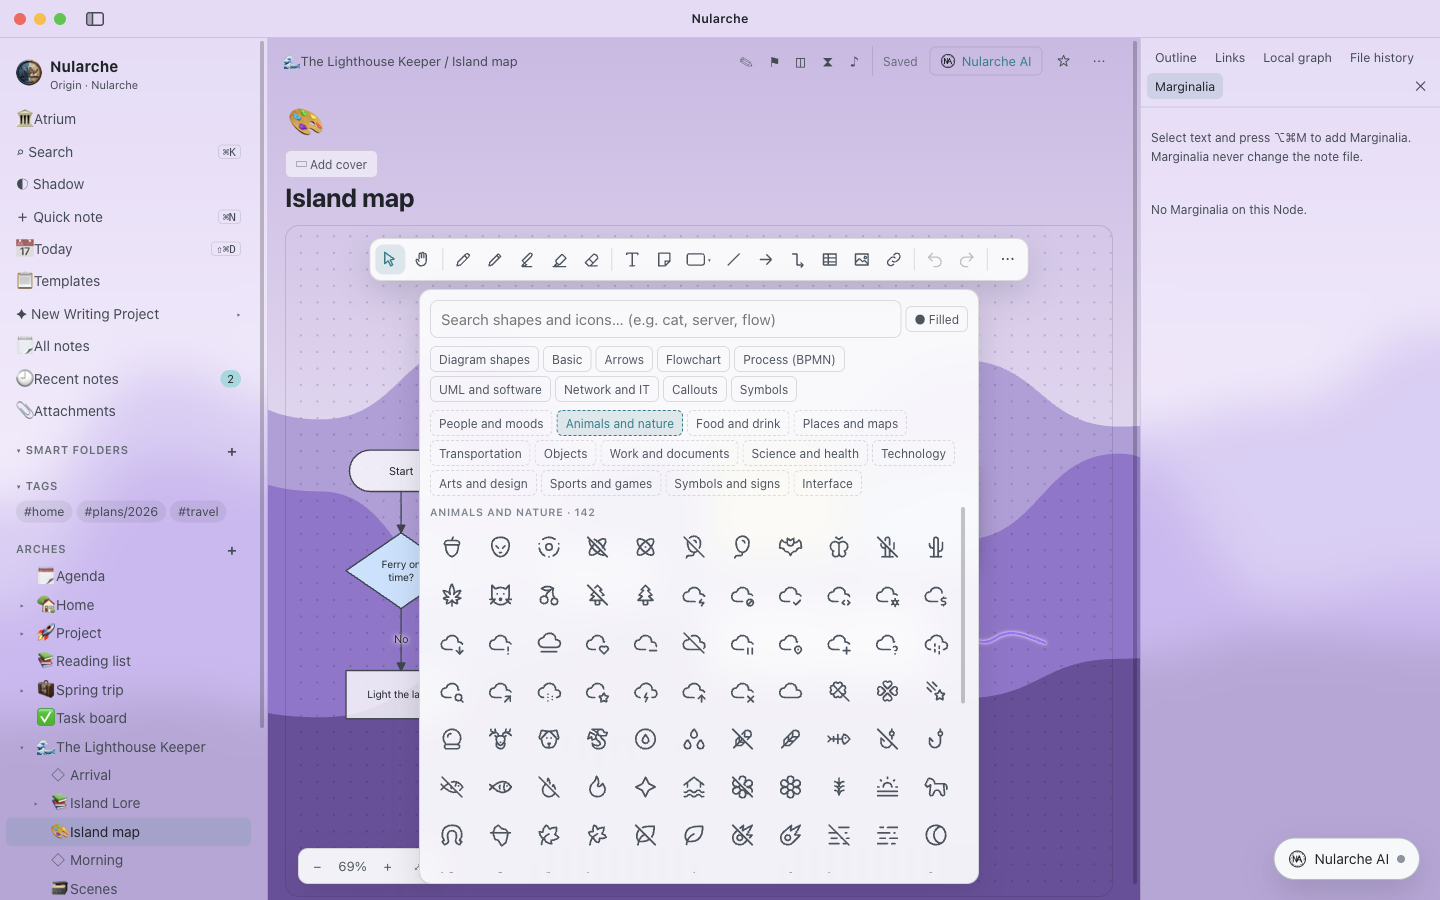
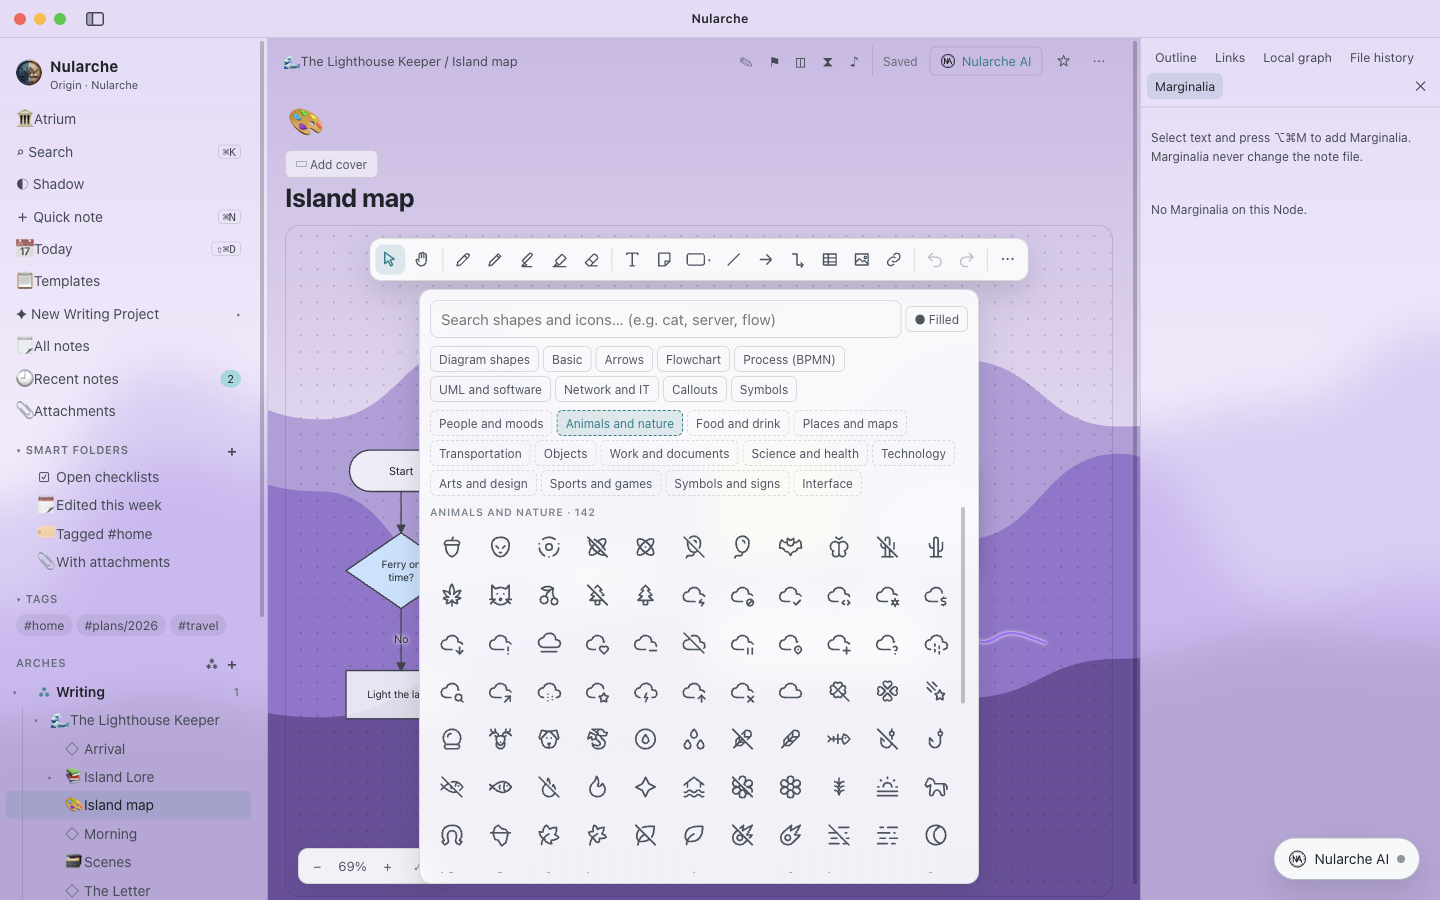
docs: screenshots for Nularche Font, Archipelago and Atrium smart folders
Adds an About entry for Nularche Font, new screenshot steps (Atrium smart folders,
Archipelago sidebar, a chapter in Nularche Font, Tabula sticky notes in Nularche Font)
and puts the images in the README 2.5.0 section.

Changed region(s): [[0.0, 0.5289, 0.1562, 0.9956], [0.1562, 0.7156, 0.1875, 0.7778], [0.125, 0.6844, 0.1562, 0.7156]]

diff --git a/scripts/screenshots.ts b/scripts/screenshots.ts
@@ -446,8 +446,8 @@ try {
       { id: "l1", type: "line", x: 0, y: 0, w: 0, h: 0, from: { x: 0, y: 0, id: "s1" }, to: { x: 0, y: 0, id: "s2" }, route: "straight", endHead: "triangle", style: { strokeWidth: 2 } },
       { id: "l2", type: "line", x: 0, y: 0, w: 0, h: 0, from: { x: 0, y: 0, id: "s2", side: "right" }, to: { x: 0, y: 0, id: "s3" }, route: "elbow", endHead: "triangle", style: { strokeWidth: 2 }, text: "Yes" },
       { id: "l3", type: "line", x: 0, y: 0, w: 0, h: 0, from: { x: 0, y: 0, id: "s2", side: "bottom" }, to: { x: 0, y: 0, id: "s4" }, route: "straight", endHead: "triangle", style: { strokeWidth: 2 }, text: "No" },
-      { id: "n1", type: "sticky", x: 520, y: -10, w: 200, h: 170, style: { fill: "#fff3a3", fontSize: 18, font: "hand", shadow: true }, text: "Storm scene goes in Act II!" },
-      { id: "n2", type: "sticky", x: 740, y: 20, w: 170, h: 150, style: { fill: "#c6e2ff", fontSize: 17, font: "hand", shadow: true }, text: "Ask Bora about the letter" },
+      { id: "n1", type: "sticky", x: 520, y: -10, w: 200, h: 170, style: { fill: "#fff3a3", fontSize: 21, font: "Nularche Font", shadow: true }, text: "Storm scene goes in Act II!" },
+      { id: "n2", type: "sticky", x: 740, y: 20, w: 170, h: 150, style: { fill: "#c6e2ff", fontSize: 20, font: "Nularche Font", shadow: true }, text: "Ask Bora about the letter" },
       { id: "t1", type: "table", x: 520, y: 220, w: 320, h: 110, style: { fontSize: 13 }, cells: [["Scene", "Status"], ["Arrival", "Done"], ["The Storm", "Draft"]] },
       { id: "i1", type: "shape", shape: "icon:building-lighthouse", x: 320, y: 290, w: 90, h: 90, style: { strokeWidth: 2, fill: "transparent", fontSize: 13, align: "center" }, text: "Lighthouse" },
       { id: "d1", type: "draw", tool: "pen", x: 860, y: 230, w: 160, h: 90, points: [[10, 60, 0.5], [40, 12, 0.6], [80, 70, 0.7], [120, 15, 0.5], [150, 50, 0.4]], style: { stroke: "#a371f7", strokeWidth: 3 } },
@@ -455,6 +455,28 @@ try {
     const res = await fetch("/api/nodes", { method: "POST", headers: { "content-type": "application/json" }, body: JSON.stringify({ title: "Island map", parentNodeId: parent, body: "```json whiteboard\n" + JSON.stringify({ version: 1, items }) + "\n```\n", fields: { layout: "whiteboard", icon: "🎨" } }) });
     return ((await res.json()) as { id: string }).id;
   }, studio.scenes);
+  // 2.5: akıllı klasörler (Atrium kartı) ve Arche'leri gruplayan Archipelago'lar
+  const groups = await page.evaluate(async () => {
+    const { nodes } = (await (await fetch("/api/nodes")).json()) as { nodes: { id: string; title: string; parentNodeId: string | null; archeId: string | null; template?: boolean }[] };
+    const arches = nodes.filter((n) => n.parentNodeId === null && n.archeId === n.id && !n.template);
+    const writing = arches.filter((a) => /Lighthouse|Novel|Thesis|Script/i.test(a.title)).map((a) => a.id);
+    const rest = arches.filter((a) => !writing.includes(a.id) && !/Journal|Günlük/i.test(a.title)).map((a) => a.id);
+    const { tags } = (await (await fetch("/api/tags")).json()) as { tags: { tag: string; count: number }[] };
+    return { writing, plans: rest.slice(0, 4), life: rest.slice(4, 7), tag: tags[0]?.tag };
+  });
+  await putPrefs({
+    archipelagos: [
+      { id: "ap_writing", name: "Writing", archeIds: groups.writing },
+      { id: "ap_plans", name: "Plans and work", archeIds: groups.plans },
+      ...(groups.life.length ? [{ id: "ap_life", name: "Life", archeIds: groups.life }] : []),
+    ],
+    smartFolders: [
+      { id: "sf_open", name: "Open checklists", icon: "☑", match: "all", checklist: "open" },
+      { id: "sf_week", name: "Edited this week", icon: "🗓", match: "all", editedDays: 7 },
+      ...(groups.tag ? [{ id: "sf_tag", name: `Tagged #${groups.tag}`, icon: "🏷", match: "all", tags: [groups.tag] }] : []),
+      { id: "sf_files", name: "With attachments", icon: "📎", match: "all", attachments: true },
+    ],
+  });
   await putPrefs({ writingBg: { kind: "scene", id: "lavender" }, writingBgEverywhere: true, sidebarMini: false });
   await page.evaluate(() => location.reload());
   await page.locator(".sidebar").waitFor();
@@ -464,6 +486,27 @@ try {
   await page.mouse.move(700, 10);
   await page.waitForTimeout(800);
   await shot("atrium-lavender");
+  await page.locator(".dash-smart").evaluate((el) => el.scrollIntoView({ block: "center" }));
+  await page.waitForTimeout(600);
+  await shot("atrium-smart-lavender");
+  await page.locator(".sidebar").evaluate((el) => {
+    const head = [...el.querySelectorAll(".side-section-head")].find((h) => /Arches/i.test(h.textContent ?? ""));
+    if (head) el.scrollTop = (head as HTMLElement).offsetTop - 12;
+  });
+  await page.waitForTimeout(400);
+  await shot("archipelago-lavender");
+  // Nularche Font: bütün notların yazı tipi olarak bir bölüm
+  await putPrefs({ writingFont: "Nularche Font" });
+  await page.evaluate(() => location.reload());
+  await page.locator(".sidebar").waitFor();
+  await page.evaluate((id) => (location.hash = id), studio.arrival);
+  await page.locator(".ProseMirror").first().waitFor();
+  await page.mouse.move(700, 10);
+  await page.waitForTimeout(1200);
+  await shot("nularche-font-lavender");
+  await putPrefs({ writingFont: "" });
+  await page.evaluate(() => location.reload());
+  await page.locator(".sidebar").waitFor();
   await page.evaluate((id) => (location.hash = id), board);
   await page.locator(".wb-svg").waitFor();
   await page.waitForTimeout(1500);

diff --git a/packages/web/src/i18n/strings18.ts b/packages/web/src/i18n/strings18.ts
@@ -406,6 +406,11 @@ export const STRINGS_18 = {
     tr: "Beyaz tahta: kalemle çizim, yapışkan notlar, metin, tablo ve görseller; akış şeması, BPMN, UML ve ağ şekilleri ile binlerce simge; şekilleri bağlayan oklar; PNG ve SVG olarak dışa aktarma.",
     en: "A whiteboard: drawing, sticky notes, text, tables and images; flowchart, BPMN, UML and network shapes plus thousands of icons; connectors between shapes; export to PNG and SVG.",
   },
+  "about.f.fontTitle": { tr: "Nularche Font:", en: "Nularche Font:" },
+  "about.f.font": {
+    tr: "Nularche'nin kendine özel el yazısı yazı tipi: bütün notlar, tek bir not ya da Tabula yazıları için seçilebilir.",
+    en: "Nularche's own handwriting typeface: choose it for all notes, a single note or text on a Tabula board.",
+  },
   "about.f.atriumTitle": { tr: "Atrium:", en: "Atrium:" },
   "about.f.atrium": {
     tr: "Kaldığınız yer, günlük hedef, yazma projeleri ve Tabula panoları, akıllı klasörler, açık görevler, Shadow gelen kutusu, Origin özeti ve her gün yeniden keşfedilecek bir not.",

diff --git a/packages/web/src/Settings.tsx b/packages/web/src/Settings.tsx
@@ -53,6 +53,7 @@ const ABOUT_FEATURES: [string, StringKey, StringKey][] = [
   ["▦", "about.f.dbTitle", "about.f.db"],
   ["📕", "about.f.studioTitle", "about.f.studio"],
   ["🎨", "about.f.tabulaTitle", "about.f.tabula"],
+  ["✍", "about.f.fontTitle", "about.f.font"],
   ["🏛", "about.f.atriumTitle", "about.f.atrium"],
   ["🎯", "about.f.focusTitle", "about.f.focus"],
   ["✦", "about.f.aiTitle", "about.f.ai"],

diff --git a/README.md b/README.md
@@ -46,6 +46,10 @@ your smart folders in the Atrium.
   your most used tags, a note to rediscover each day, recently edited and pinned notes. A **Smart folders** card lists
   each smart folder with its note count and creates new ones.
 
+<p align="center">
+  <img src="docs/screenshots/atrium-smart-lavender.png" width="860" alt="Atrium over Lavender Hills with the Smart folders card listing each folder and its note count, next to Tabula, open tasks and Shadow" />
+</p>
+
 **Tabula (whiteboard)**
 
 <p align="center">
@@ -84,12 +88,21 @@ your smart folders in the Atrium.
   font for all notes (Settings), as the font of a single note, or for text, sticky notes and shapes on a Tabula board.
   It ships with the app and works offline.
 
+<p align="center">
+  <img src="docs/screenshots/nularche-font-lavender.png" width="860" alt="A chapter of a novel written in Nularche Font, Nularche's own handwriting typeface" />
+</p>
+
 **Window**
 
 - **Archipelago (group your Arches):** press **⁂** next to *Arches* in the sidebar to create a group such as Work or
   School. Add an Arche with its own **⁂** button or by dragging it onto the group; drag inside a group to reorder.
   A group can be collapsed, renamed or removed (its Arches stay), and its **+** creates a new Arche inside it. Groups
   only arrange the sidebar: no files move.
+
+<p align="center">
+  <img src="docs/screenshots/archipelago-lavender.png" width="860" alt="The sidebar with Arches grouped into the Archipelagos Writing, Plans and work, and Life" />
+</p>
+
 - **Hide the sidebar:** the sidebar button next to the window buttons (or ⌥⌘B / Ctrl+Alt+B) hides the sidebar
   completely. Hover the button and the sidebar slides in as a panel tinted by your background; move away and it
   hides again. Click the button to bring it back for good. On Windows and Linux the button sits at the top left of the
